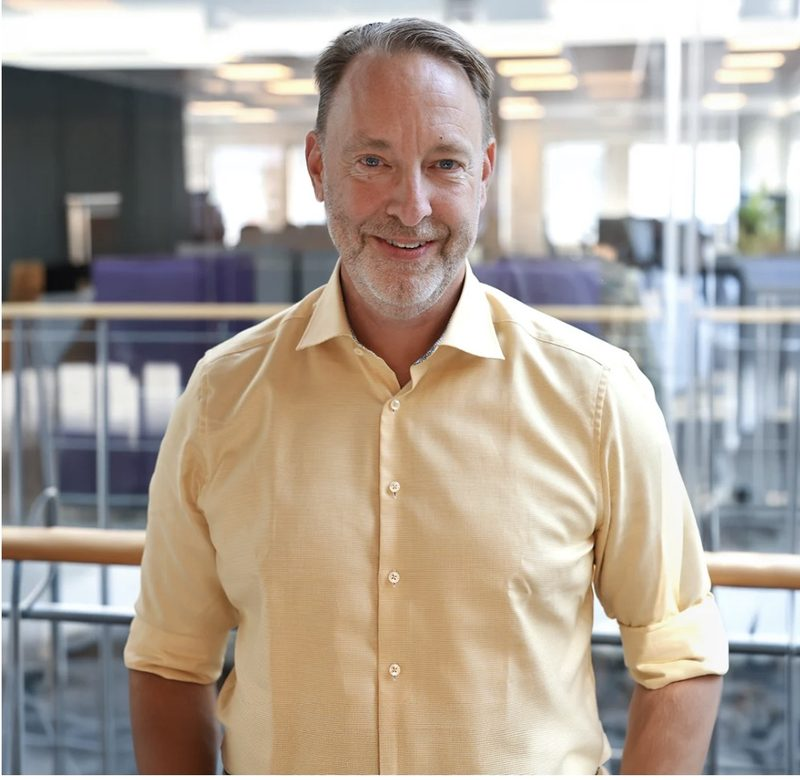
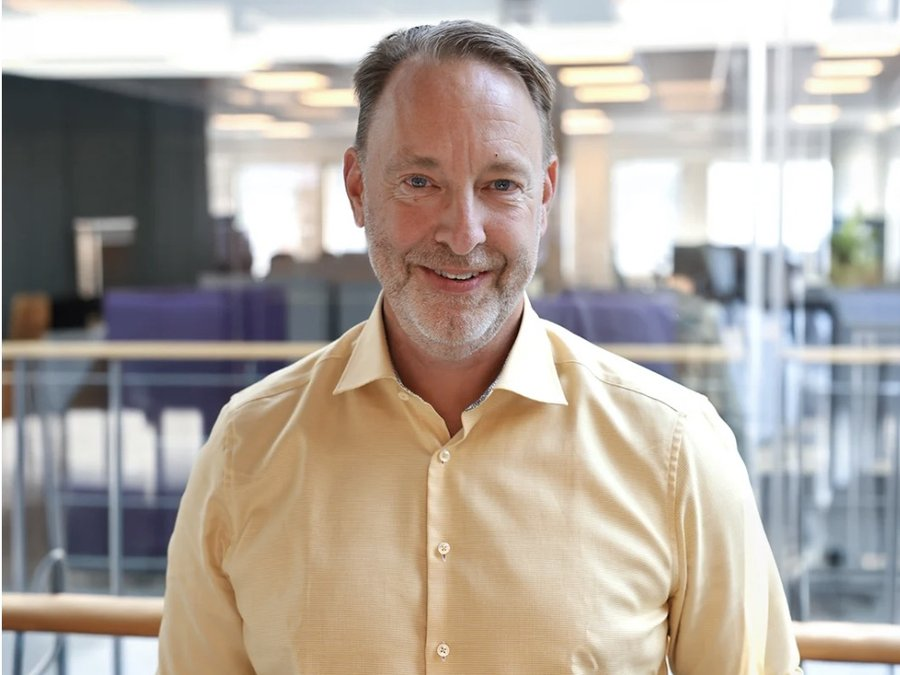
Add NVIDIA hardware bullet to ALT card, fix office photo cropping
- Add a dedicated "Local NVIDIA hardware" bullet (Nordics, UK, and
  Iceland data centres) as the lead item in the ALT four-areas list
- Re-crop the office photo top-aligned to a 4:3 ratio matching the
  CSS container exactly, so the browser's object-fit:cover no longer
  crops off the top of the head to compensate for excess space at
  the bottom

Claude-Session: https://claude.ai/code/session_01V5HvF3WYed1ZNtuRHTN3cm

diff --git a/cv.html b/cv.html
@@ -538,9 +538,10 @@
         <span class="alt-badge">ALT</span>
         <h3>Advania AI Layer Technology</h3>
         <p>What we build is sovereignty, end to end — real control over your data, your models,
-          and the infrastructure they run on, down to our own NVIDIA hardware running in Nordic
-          data centres.</p>
+          and the infrastructure they run on.</p>
         <ul class="alt-list">
+          <li><strong>Local NVIDIA hardware</strong> — our own GPU infrastructure running in data
+            centres across the Nordics, the UK, and Iceland, keeping compute close to home</li>
           <li><strong>Security &amp; data sovereignty</strong> — full control over where your
             data is processed and stored, reducing exposure to unsecured external AI services</li>
           <li><strong>Governance &amp; policy management</strong> — built-in guardrails and shared
